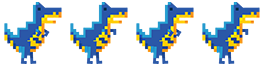
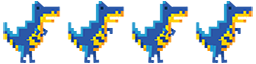
- Updated Player class to use AnimationComponent

diff --git a/lib/components/player.dart b/lib/components/player.dart
@@ -1,88 +1,19 @@
 import 'dart:ui';
 
 import 'package:flame/animation.dart';
-import 'package:flame/components/component.dart';
-import 'package:flame/sprite.dart';
-import 'package:hostgator_runner_game/game.dart';
-import 'package:hostgator_runner_game/game_state.dart';
+import 'package:flame/components/animation_component.dart';
 
-
-class Player extends Component {
+class Player extends AnimationComponent {
 
   Size size;
-  Animation animation;
-  Animation idleAnimation;
-  Animation runAnimation;
+  static String spriteSheet = "player/player-idle.png";
 
-  final List<Sprite> idleSprites = [
+  Player(this.size):super(
+      64, 64, Animation.sequenced(spriteSheet, 4, textureWidth: 64, textureHeight: 64, stepTime: 0.40)
+  ){
 
-    Sprite("player/player-idle-0.png"),
-    Sprite("player/player-idle-1.png"),
-    Sprite("player/player-idle-2.png"),
-    Sprite("player/player-idle-3.png"),
-
-  ];
-
-  final List<Sprite> runSprites = [
-
-    Sprite("player/player-run-0.png"),
-    Sprite("player/player-run-1.png"),
-    Sprite("player/player-run-2.png"),
-    Sprite("player/player-run-3.png"),
-    Sprite("player/player-run-4.png"),
-    Sprite("player/player-run-5.png"),
-    Sprite("player/player-run-4.png"),
-    Sprite("player/player-run-3.png"),
-    Sprite("player/player-run-2.png"),
-    Sprite("player/player-run-1.png"),
-    Sprite("player/player-run-0.png"),
-
-  ];
-
-  static const double playerSize = 64;
-  Rect rect;
-  static double playerInitialPositionX;
-  static double playerInitialPositionY;
-
-  Player(this.size){
-
-    playerInitialPositionX = size.width / 9;
-    playerInitialPositionY = size.height - (size.width / size.height) * 30 - 48;
-
-    //print(size.height );
-    //print(size.width / size.height);
-    //print(size.height - (size.width / size.height) * 30);
-
-  rect = Rect.fromLTWH(playerInitialPositionX, playerInitialPositionY, playerSize, playerSize);
-
-  idleAnimation = Animation.spriteList(idleSprites, stepTime: 0.4, loop: true);
-  runAnimation = Animation.spriteList(runSprites, stepTime: 0.03, loop: true);
-
-  animation = idleAnimation;
-
-  }
-
-
-  void render(Canvas canvas){
-    animation.getSprite().renderRect(canvas, rect);
-  }
-
-  void update(double dt){
-
-    animation.update(dt);
-
-    animation = idleAnimation;
-
-    if(Game.gameState == GameState.IDLE){
-
-    } else if(Game.gameState == GameState.STARTED){
-
-      animation = runAnimation;
-
-    } else {
-      animation = idleAnimation;
-    }
-
+    x = size.width / 9;
+    y = size.height - (size.width / size.height) * 30 - 48;
 
   }
 

diff --git a/lib/components/background.dart b/lib/components/background.dart
@@ -1,15 +1,12 @@
 import 'dart:ui';
 
 import 'package:flame/components/parallax_component.dart';
-import 'package:flutter/cupertino.dart';
-import 'package:hostgator_runner_game/game.dart';
-import 'package:hostgator_runner_game/game_state.dart';
 
 class Background extends ParallaxComponent{
 
-  ParallaxComponent parallaxComponent;
+  //Start 40, 20
 
-  Background() : super(
+  Background({List<ParallaxImage> images,}) : super(
       [
 
         ParallaxImage("bg/bg-clouds.png",),
@@ -26,15 +23,6 @@ class Background extends ParallaxComponent{
 
     super.update(t);
 
-    if(Game.gameState == GameState.STARTED){
-
-         baseSpeed = Offset(50, 0);
-         layerDelta = Offset(20, 0);
-
-    } else {
-      baseSpeed = Offset(0, 0);
-      layerDelta = Offset(0, 0);
-    }
 
 
   }

diff --git a/lib/game.dart b/lib/game.dart
@@ -30,11 +30,7 @@ class Game extends BaseGame with HasWidgetsOverlay, TapDetector {
   void onTap() {
     super.onTap();
 
-    if(gameState == GameState.IDLE){
-      gameState = GameState.STARTED;
-    } else {
-      gameState = GameState.IDLE;
-    }
+
 
   }
 
